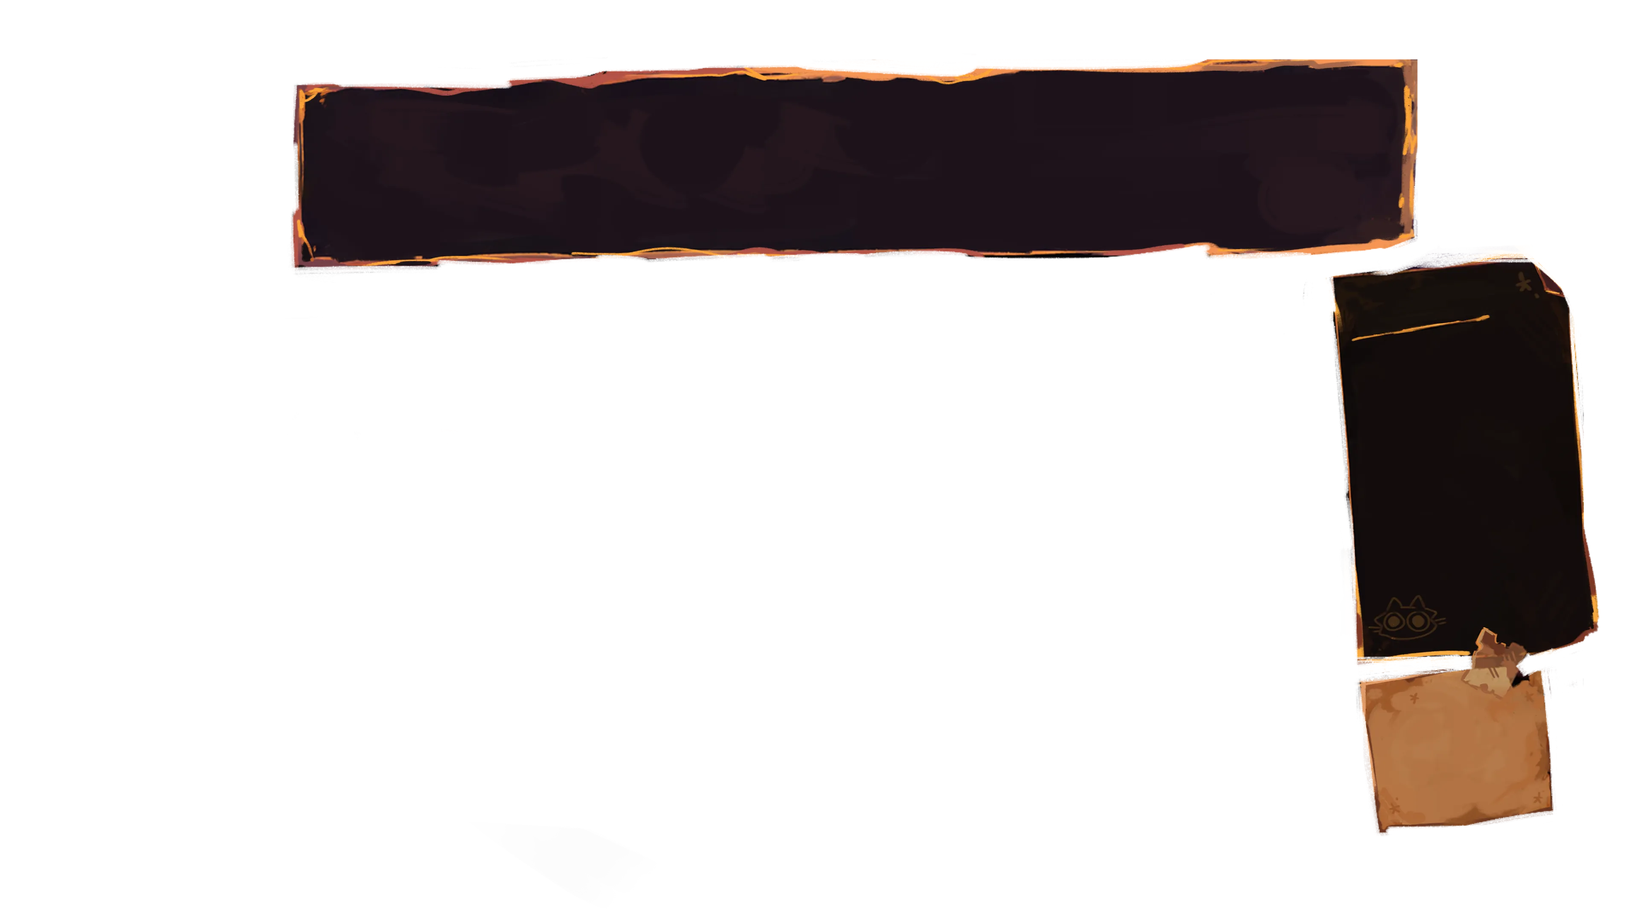
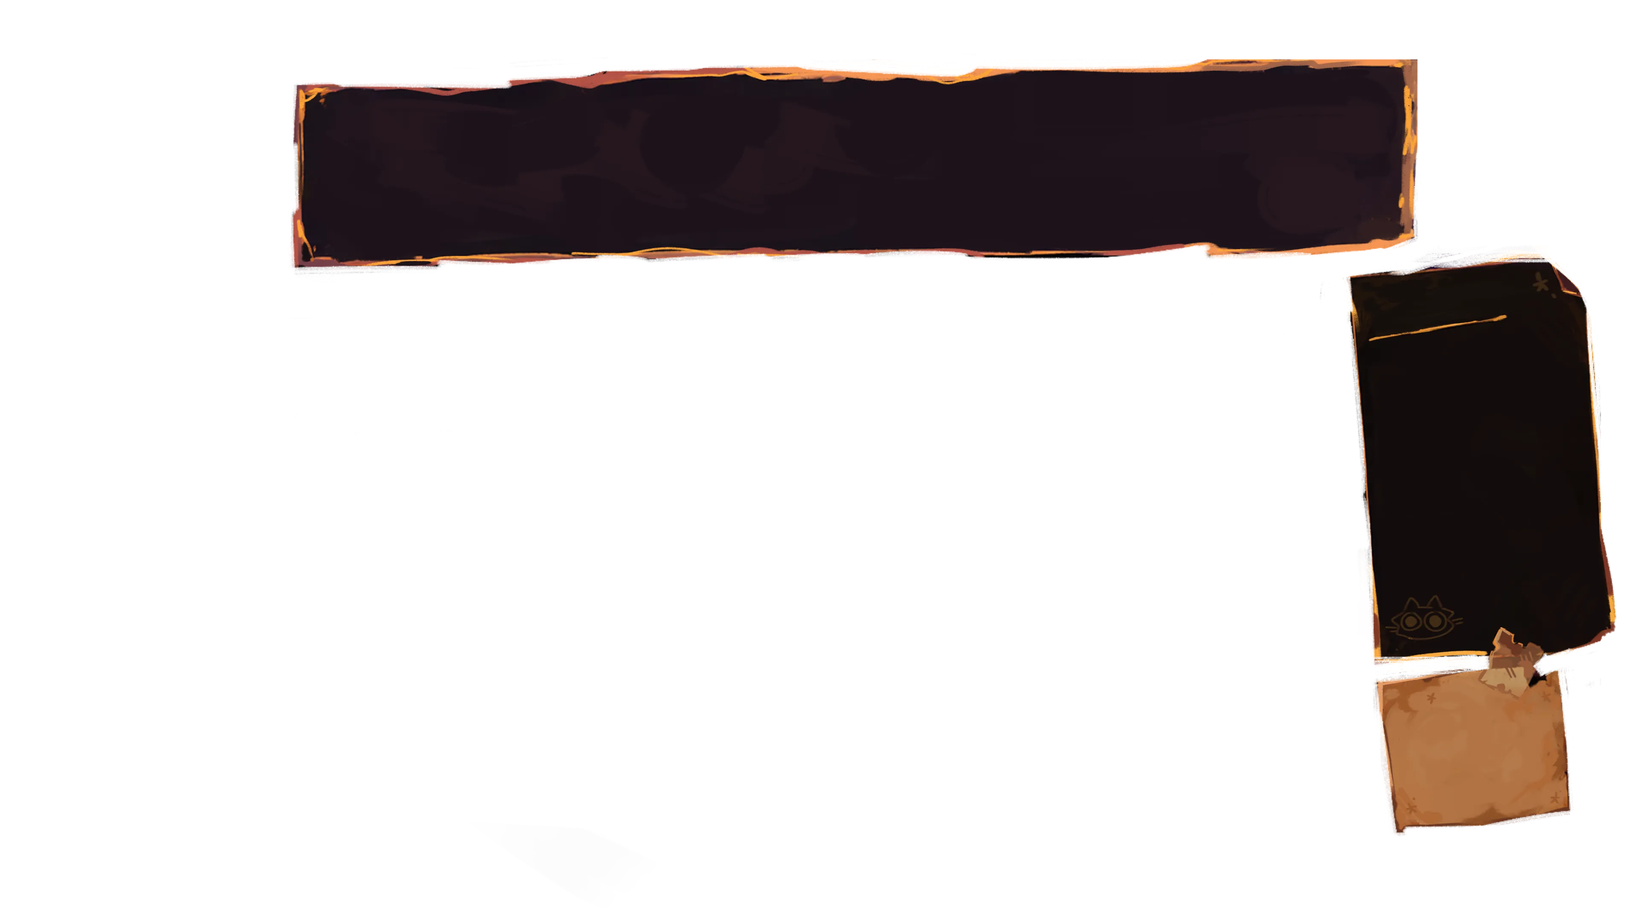
.

Changed region(s): [[0.8125, 0.2792, 1.0, 0.8995]]

diff --git a/src/styles/focused.css b/src/styles/focused.css
@@ -2,44 +2,50 @@
 html.focused .desktop .topbar{visibility:hidden}
 /* ---- desktop / wide-tablet stage: a 16:9 box (scales to the screen). Positions are % of the 3840×2160 art; text sizes use cqw (1cqw = 1% of the stage width) ---- */
 .fw{position:fixed;inset:0;z-index:20;display:grid;place-items:center;pointer-events:none}
-.fw-stage{position:relative;width:min(100vw,177.7778dvh);height:min(56.25vw,100dvh);container-type:size;pointer-events:none;opacity:0;transform:translateY(14px) scale(.985);transition:opacity .6s ease,transform .7s cubic-bezier(.2,1.1,.3,1);--cr-hand:var(--hand,'Caveat',cursive)}
+.fw-stage{position:relative;width:min(100vw,210dvh);height:min(100dvh,64.5vw);container-type:size;pointer-events:none;opacity:0;transform:translateY(14px) scale(.985);transition:opacity .6s ease,transform .7s cubic-bezier(.2,1.1,.3,1);--cr-hand:var(--hand,'Caveat',cursive)}
 .fw-stage.shown{opacity:1;transform:none}
 .fw-stage>*{position:absolute}
 .fw-art{inset:0;width:100%;height:100%;object-fit:fill;user-select:none;filter:drop-shadow(0 1.4cqw 2.4cqw #000a)}
 .fw-top,.fw-nav,.fw-head,.fw-scroll,.fw-bring,.fw-note{pointer-events:auto}
-/* header: logo, name, clock */
-.fw-top{left:3%;right:2.6%;top:2.4%;display:flex;align-items:center;gap:1.1cqw;font:700 1.55cqw/1 var(--disp);letter-spacing:.12em;color:var(--cr);pointer-events:none}
-.fw-top img{width:4.2cqw;filter:drop-shadow(0 4px 8px #000a)}.fw-top .clock{margin-left:auto;pointer-events:auto;font-size:max(11px,.85cqw)}.fw-top .sfxbtn{font-size:max(10px,.8cqw)}
+.fw-stars{inset:0;width:100%;height:100%;pointer-events:none}
+.fw-pc{left:0;bottom:0;width:17.6cqw;height:auto;--from:translateX(-60px);animation-delay:.12s;filter:drop-shadow(0 12px 20px #000b)}
+html.focused .dock{top:max(14px,2.4vh);left:max(14px,1.2vw)}
+/* header: SFX + clock (the name now lives in the banner) */
+.fw-top{right:1.1%;top:2.5%;display:flex;align-items:center;pointer-events:none}
+.fw-top .clock{margin-left:auto;pointer-events:auto;font-size:max(11px,.85cqw)}.fw-top .sfxbtn{font-size:max(10px,.8cqw)}
 /* left navigation */
 .fw-nav{left:6.9%;top:19.5%;width:11.4%;display:flex;flex-direction:column;gap:.35cqw}
 .fw-nav button{display:flex;align-items:center;gap:.8cqw;padding:.85cqw .9cqw;text-align:left;font:600 .98cqw/1 var(--mono);letter-spacing:.11em;text-transform:uppercase;border-radius:.3cqw;transition:.2s;color:var(--cr)}
 .fw-nav img{width:2.3cqw;height:2.3cqw;object-fit:contain;flex:none}
 .fw-nav button:hover{background:var(--o2);color:var(--bg);transform:translateX(.25cqw)}.fw-nav button:hover img{filter:brightness(.25) contrast(1.3)}
 .fw-nav .on{background:#ff8c1822;box-shadow:inset .22cqw 0 0 var(--o2);color:var(--cr2)}
-/* banner = the professional focus */
-.fw-banner{left:19.6%;top:10.6%;width:65%;height:16.6%;display:flex;align-items:center;gap:2.2cqw;transform:rotate(-1.1deg);pointer-events:none}
-.fw-banner>img{width:6.6cqw;height:6.6cqw;object-fit:contain;filter:drop-shadow(0 .4cqw .6cqw #000a)}
-.fw-banner h2{font:900 3.4cqw/1 var(--disp);letter-spacing:.02em;color:var(--cr2)}
-.fw-banner i{display:block;width:16cqw;height:.32cqw;margin:.7cqw 0 .9cqw;border-radius:.3cqw;background:var(--o2);transform:rotate(-.6deg)}
-.fw-banner p{font-size:max(10px,.98cqw);line-height:1.45;letter-spacing:.04em;color:var(--cr);opacity:.92}
+/* banner = name + role */
+.fw-banner{left:19.6%;top:10.6%;width:65.4%;height:16.8%;display:flex;align-items:center;gap:2.2cqw;transform:rotate(-1.1deg);pointer-events:none}
+.fw-banner>img:first-child{width:6.4cqw;height:6.4cqw;object-fit:contain;align-self:center;margin-top:-1.2cqh;filter:drop-shadow(0 .4cqw .6cqw #000a)}
+.fw-banner h2{position:relative;display:inline-block;font:900 3.6cqw/1.05 var(--disp);letter-spacing:.02em;color:var(--cr2);padding-bottom:.9cqw}
+.fw-banner h2:after{content:"";position:absolute;left:0;right:-1.5cqw;bottom:0;height:.3cqw;border-radius:.3cqw;background:var(--o2);transform:rotate(-.5deg)}
+.fw-banner p{margin-top:1cqw;font:600 max(10px,1cqw)/1.35 var(--mono);letter-spacing:.03em;color:var(--cr)}
+.fw-logo{margin-left:auto;margin-right:3cqw;width:7.2cqw;height:auto;object-fit:contain;filter:drop-shadow(0 .4cqw .8cqw #000a)}
 /* section heading + filters */
 .fw-head{left:19.6%;width:61%;top:30.6%;height:6.4%;display:flex;align-items:center;justify-content:space-between;gap:1.4cqw}
-.fw-head h3{display:flex;align-items:center;gap:1cqw;font:600 1.35cqw/1 var(--mono);letter-spacing:.14em;color:var(--cr2);position:relative;padding-bottom:.6cqw}
-.fw-head h3 img{width:2.8cqw;height:2.8cqw;object-fit:contain}.fw-head h3:after{content:"";position:absolute;left:3.6cqw;right:0;bottom:0;height:.26cqw;border-radius:.3cqw;background:var(--o2);transform:rotate(-.5deg)}
+.fw-head h3{display:flex;align-items:center;gap:.9cqw;font:600 1.05cqw/1 var(--mono);letter-spacing:.14em;color:var(--cr2);position:relative;padding-bottom:.6cqw}
+.fw-head h3 img{width:2.4cqw;height:2.4cqw;object-fit:contain}.fw-head h3:after{content:"";position:absolute;left:3.3cqw;right:0;bottom:0;height:.26cqw;border-radius:.3cqw;background:var(--o2);transform:rotate(-.5deg)}
 .fw-pills{display:flex;flex-wrap:wrap;gap:.6cqw;justify-content:flex-end}
 .fw-pills button{display:inline-flex;align-items:center;gap:.5em;padding:.45cqw 1cqw;font:500 max(9.5px,.78cqw)/1.2 var(--mono);letter-spacing:.08em;border:1px solid #ff8c1877;border-radius:99px;transition:.2s}
 .fw-pills button:hover{background:#ff8c1833}.fw-pills button.on{background:var(--o2);color:var(--bg);border-color:var(--o2);font-weight:600}.fw-pills .swi{margin:0}
 /* scrolling content = the existing sections, untouched */
 .fw-scroll{left:19.6%;width:61%;top:38.4%;bottom:4.6%;overflow:auto;overflow-x:hidden;padding:.4cqw .8cqw 2cqw .2cqw;scrollbar-color:var(--o) transparent;scrollbar-width:thin;-webkit-overflow-scrolling:touch;overscroll-behavior:contain}
-/* what I bring */
-.fw-bring{left:82.4%;top:29%;width:14.4%;height:37.5%;transform:rotate(-3.3deg);padding:5.7cqw .9cqw 0 1.3cqw;color:var(--cr)}
-.fw-bring h3{position:absolute;left:1.5cqw;top:.55cqw;font:700 1.7cqw/1 var(--hand);letter-spacing:.07em;text-transform:uppercase;color:var(--cr2);white-space:nowrap}
+/* what I bring (rotated to match the drawn panel) */
+.fw-bring{left:83.1%;top:29.6%;width:14.6%;height:41%;transform:rotate(-4.2deg);padding:9cqh .8cqw 0 1.2cqw;color:var(--cr)}
+.fw-bring h3{position:absolute;left:1.3cqw;top:2.1cqh;font:700 1.3cqw/1 var(--hand);letter-spacing:.07em;text-transform:uppercase;color:var(--cr2);white-space:nowrap}
 .fw-bring ul{list-style:none;padding:0;height:100%;overflow:hidden auto;scrollbar-width:none}.fw-bring ul::-webkit-scrollbar{display:none}
-.fw-bring li{display:flex;gap:.55cqw;margin-bottom:.7cqw;font:600 1.12cqw/1.06 var(--hand)}.fw-bring li:before{content:"✦";color:var(--o2);font-size:.95em;flex:none;line-height:1.1}
+.fw-bring li{display:flex;gap:.5cqw;margin-bottom:.6cqw;font:600 1.02cqw/1.06 var(--hand)}.fw-bring li:before{content:"✦";color:var(--o2);font-size:.95em;flex:none;line-height:1.1}
 /* sticky note → generalist portfolio (a real link) */
-.fw-note{left:83.7%;top:75.3%;width:10.4%;height:13.6%;display:grid;place-content:center;gap:.5cqw;text-align:center;color:#3a2113;font-family:var(--hand);transform:rotate(-5deg);transition:transform .25s}
-.fw-note span{font:700 1.5cqw/1 var(--hand);letter-spacing:.04em;text-transform:uppercase}.fw-note b{justify-self:center;font:700 1.35cqw/1 var(--hand);letter-spacing:.06em;text-transform:uppercase;padding:.35cqw .8cqw;border:.2cqw solid #3a2113;border-radius:.5cqw;transition:.2s}
-.fw-note:hover,.fw-note:focus-visible{transform:rotate(-2deg) scale(1.05)}.fw-note:hover b,.fw-note:focus-visible b{background:#3a2113;color:#ffd36a}
+.fw-note{left:84.6%;top:74%;width:10.8%;height:15.4%;display:grid;place-content:center;gap:.7cqw;text-align:center;color:#3a2113;font-family:var(--hand);transform:rotate(-4deg);transition:transform .25s}
+.fw-note span{font:700 1.1cqw/1.05 var(--hand);letter-spacing:.04em;text-transform:uppercase;opacity:.8}
+.fw-note b{position:relative;justify-self:center;font:700 1.05cqw/1 var(--mono);letter-spacing:.08em;text-transform:uppercase;padding:.5cqw 1.2cqw;border-radius:99px;background:var(--o2);color:var(--bg);box-shadow:0 .2cqw .5cqw #0006;transition:.2s}
+.fw-note b:after{content:"✦";position:absolute;right:-.5cqw;top:-.7cqw;font-size:1.1cqw;color:var(--y2)}
+.fw-note:hover,.fw-note:focus-visible{transform:rotate(-2deg) scale(1.05)}.fw-note:hover b,.fw-note:focus-visible b{background:var(--y2)}
 
 /* ---- phones / portrait tablets: the existing full-screen window + a compact focus header at the top of the content ---- */
 .fi{display:flex;flex-wrap:wrap;gap:10px;align-items:stretch;margin:0 0 14px;padding:10px 12px;border:1px solid #ff8c1866;border-radius:10px;background:linear-gradient(#24150e,#1b100b)}
@@ -66,3 +72,6 @@ html.compact .fw .fw-scroll .grid{display:grid;overflow:visible;padding:0;scroll
 html.compact .fw .fw-scroll .awards{display:grid;overflow:visible;padding:0;scroll-snap-type:none}
 html.compact .fw .fw-scroll .grid>.card,html.compact .fw .fw-scroll .award{flex:initial}
 html.compact .fw .fw-scroll .card p{display:block;-webkit-line-clamp:unset;overflow:visible}
+
+/* smaller sub-headings inside the focused window (Recognition…, category intros) */
+.fw-scroll .sec-intro h3{font-size:max(12px,1.1cqw)}.fw-scroll .sec-intro p{font-size:max(10px,.8cqw);line-height:1.5}

diff --git a/src/utils/preload.js b/src/utils/preload.js
@@ -3,14 +3,13 @@ import { site, about } from '../data/siteData';
 import { sections } from '../data/navigationData';
 import { asset, appleVideo } from './assets';
 import * as M from './music';
+import { PREVIEWS } from '../components/PreviewReel';
 // Two-stage loading, so the loading screen stays short:
-//   1) CRITICAL (blocks the intro): backgrounds, UI, logo + section icons and the Rigging thumbnails (the first section most visitors open).
-//   2) BACKGROUND (starts shortly after the desktop appears, never blocks anything): all remaining images, then the rest of the videos
-//      (first video of each project before the second ones), then the other songs. It pauses while a pop-up/viewer is open so it never competes with what the visitor is watching.
+//   1) CRITICAL (blocks the intro): ONLY backgrounds, UI art, logo + section icons and the section PREVIEW videos (components/PreviewReel.jsx).
+//   2) BACKGROUND (starts right after the intro, while the visitor watches a preview): thumbnails (the opened section first), then the other songs. Project videos load when they are opened.
 // URLs are collected automatically from your data files (portfolioData / siteData) — new entries are picked up with no changes here.
 // Missing files are skipped silently. Anything still loading after TIMEOUT_MS keeps loading in the background.
-const TIMEOUT_MS = 60000, BG_DELAY_MS = 700, IMG = /\.(webp|png|jpe?g|gif|avif|svg)(\?|$)/i, VID = /\.(webm|mp4)(\?|$)/i;
-const EAGER_VIDEO_OF = 'blender-01'; // ✏ project whose FIRST video is the very first thing loaded in the background stage right after the desktop appears (Eridan). It no longer holds up the loading screen.
+const TIMEOUT_MS = 60000, BG_DELAY_MS = 300, IMG = /\.(webp|png|jpe?g|gif|avif|svg)(\?|$)/i, VID = /\.(webm|mp4)(\?|$)/i;
 const FOCUSED_ART = /\/focused/.test(location.hash) ? ['/assets/ui/FocusedWindow.webp', '/assets/ui/FocusedLayerTop.webp'] : []; // only the focused versions need these
 const STATIC = [...FOCUSED_ART, '/assets/intro/color-logo.webp', '/assets/backgrounds/background.jpg', '/assets/ui/main-window.webp', '/assets/ui/small-window.webp', '/assets/ui/award-card.webp', '/assets/ui/about-layout.webp',
   '/assets/ui/back-right.webp', '/assets/ui/front-left.webp', '/assets/audio/PlayerIcon.webp', ...(appleVideo() ? ['/assets/backgrounds/backgroundApple.webm'] : ['/assets/backgrounds/background.webm', '/assets/backgrounds/foreground.webm'])];
@@ -28,20 +27,19 @@ export async function preloadAll(onProgress) {
   const all = new Set(); walk(D, all); walk(about, all);
   // ---- stage 1: critical ----
   const crit = new Set(STATIC); crit.add(site.logo); sections.forEach((s) => crit.add(`/assets/icons/${s.id}.webp`));
-  D.rigging.forEach((it) => { if (typeof it.image === 'string' && (it.image.startsWith('/assets/') || it.image.startsWith('http'))) crit.add(it.image); }); // Rigging thumbnails only; the other sections' thumbnails load right after the desktop appears (stage 2, first in line)
-  const eager = D.rigging.find((r) => r.id === EAGER_VIDEO_OF)?.videos?.[0]?.src; // (no longer blocks loading)
+  if (!save) Object.values(PREVIEWS).forEach((p) => crit.add(p.src)); // the first-visit preview reels (a missing file is skipped silently). Thumbnails + project videos are NOT waited for any more.
+  const hot = (location.hash.match(/^#\/(\w+)/) || [])[1] || 'rigging', hotSet = new Set(); (Array.isArray(D[hot]) ? D[hot] : D.rigging).forEach((it) => typeof it.image === 'string' && hotSet.add(it.image)); // thumbnails of the section being opened load first
   await M.init(); const songs = M.getState().tracks.map((t) => t.url); // song 1 streams by itself through the player's <audio>; the others load in stage 2
-  const imgs = [...crit].filter((u) => !VID.test(u)), vids = save ? [] : [...crit].filter((u) => VID.test(u) && (!phone || /backgrounds/.test(u))).sort((a, b) => /backgrounds/.test(b) - /backgrounds/.test(a));
+  const imgs = [...crit].filter((u) => !VID.test(u)), vids = save ? [] : [...crit].filter((u) => VID.test(u) && (!phone || /backgrounds|previews/.test(u))).sort((a, b) => /backgrounds/.test(b) - /backgrounds/.test(a));
   const total = imgs.length + vids.length || 1, frac = new Map(); let t = 0;
   const rep = (u) => (f) => { frac.set(u, f); const n = performance.now(); if (n - t > 90 || f === 1) { t = n; onProgress?.([...frac.values()].reduce((a, b) => a + b, 0) / total); } };
   const run = Promise.all([pool(imgs, 10, (u) => imgTask(u, rep(u))), pool(vids, 3, (u) => streamTask(u, rep(u)))]);
   await Promise.race([run, new Promise((r) => setTimeout(r, TIMEOUT_MS))]); onProgress?.(1);
   // ---- stage 2: everything else, quietly, after the intro ----
   setTimeout(async () => {
-    const num = (u) => +(/-(\d+)\.\w+$/.exec(u)?.[1] || 0), noop = () => {};
-    const restImgs = [...all].filter((u) => !crit.has(u) && !VID.test(u)).sort((a, b) => /thumb|\/animation\/|\/modelling\/|\/awards\/|\/projects\//.test(b) - /thumb|\/animation\/|\/modelling\/|\/awards\/|\/projects\//.test(a)); // section thumbnails first, then the rest // (crit images are already cached; never fetched twice)
-    const restVids = save ? [] : [...all].filter((u) => !crit.has(u) && VID.test(u) && !phone).sort((a, b) => num(a) - num(b)); // video 01 of every project before video 02, etc.
-    const first = eager && !save && !phone ? [eager] : [], rest = [...first, ...restVids.filter((u) => u !== eager), ...(save || phone ? [] : songs.slice(1, 3))];
+    const noop = () => {}, sec = /thumb|\/animation\/|\/modelling\/|\/awards\/|\/projects\//, score = (u) => (hotSet.has(u) ? 2 : sec.test(u) ? 1 : 0);
+    const restImgs = [...all].filter((u) => !crit.has(u) && !VID.test(u)).sort((a, b) => score(b) - score(a)); // thumbnails: the opened section first, then the other sections
+    const rest = save || phone ? [] : songs.slice(1, 3); // project videos are no longer prefetched: they stream when opened
     try { await pool(restImgs, 5, async (u) => { await calm(); await imgTask(u, noop); }); await pool(rest, 2, async (u) => { await calm(); await streamTask(u, noop); }); } catch {}
   }, BG_DELAY_MS);
 }

diff --git a/src/components/StarField.jsx b/src/components/StarField.jsx
@@ -1,0 +1,41 @@
+import { useEffect, useRef } from 'react';
+import { reducedMotion } from '../utils/assets';
+
+// Little orange stars that drift around the focused window and react to the mouse / finger: they get pushed away from the pointer, and moving it leaves a few sparks.
+const COLORS = ['#FFB52E', '#FF8C18', '#FFD36A', '#FF7A00'];
+function sprite(color) { // one soft 4-point star, drawn once and reused
+  const s = 48, c = document.createElement('canvas'); c.width = c.height = s; const x = c.getContext('2d'), m = s / 2;
+  x.shadowColor = color; x.shadowBlur = 7; x.fillStyle = color; x.beginPath();
+  x.moveTo(m, 5); x.quadraticCurveTo(m + 3, m - 3, s - 5, m); x.quadraticCurveTo(m + 3, m + 3, m, s - 5); x.quadraticCurveTo(m - 3, m + 3, 5, m); x.quadraticCurveTo(m - 3, m - 3, m, 5); x.fill(); return c;
+}
+export default function StarField() {
+  const cv = useRef();
+  useEffect(() => {
+    if (reducedMotion()) return;
+    const el = cv.current, x = el.getContext('2d'), sp = COLORS.map(sprite), coarse = matchMedia('(pointer:coarse)').matches;
+    let w = 1, h = 1, dpr = 1, raf = 0, last = performance.now(), mx = -999, my = -999, lx = -999, ly = -999;
+    const N = coarse ? 16 : 34, R = coarse ? 110 : 150, stars = [], sparks = [];
+    const mk = () => ({ x: Math.random() * w, y: Math.random() * h, vx: (Math.random() - 0.5) * 0.12, vy: -0.03 - Math.random() * 0.12, s: 5 + Math.random() * 9, a: Math.random() * 6.28, f: 0.8 + Math.random() * 1.6, c: (Math.random() * sp.length) | 0, px: 0, py: 0 });
+    const fit = () => { const r = el.getBoundingClientRect(); dpr = Math.min(2, devicePixelRatio || 1); w = r.width || 1; h = r.height || 1; el.width = w * dpr; el.height = h * dpr; x.setTransform(dpr, 0, 0, dpr, 0, 0); while (stars.length < N) stars.push(mk()); };
+    const move = (e) => { const r = el.getBoundingClientRect(); mx = e.clientX - r.left; my = e.clientY - r.top;
+      if (Math.hypot(mx - lx, my - ly) > 14 && mx > 0 && my > 0 && mx < w && my < h && sparks.length < 28) { sparks.push({ x: mx, y: my, vx: (Math.random() - 0.5) * 0.7, vy: (Math.random() - 0.5) * 0.7 - 0.2, t: 0, s: 4 + Math.random() * 5, c: (Math.random() * sp.length) | 0 }); lx = mx; ly = my; } };
+    const leave = () => { mx = my = -999; };
+    const frame = (t) => { raf = requestAnimationFrame(frame); const dt = Math.min(48, t - last) / 16.67; last = t; x.clearRect(0, 0, w, h);
+      for (const s of stars) {
+        const dx = s.x - mx, dy = s.y - my, d = Math.hypot(dx, dy);
+        if (d < R && d > 0.1) { const f = (1 - d / R) ** 2 * 1.5; s.px += (dx / d) * f; s.py += (dy / d) * f; } // pushed away from the pointer
+        s.x += (s.vx + s.px) * dt; s.y += (s.vy + s.py) * dt; s.px *= 0.93; s.py *= 0.93;
+        if (s.y < -12) { s.y = h + 12; s.x = Math.random() * w; } if (s.x < -12) s.x = w + 12; if (s.x > w + 12) s.x = -12; if (s.y > h + 14) s.y = -12;
+        const tw = 0.55 + 0.45 * Math.sin(t / 1000 * s.f + s.a), z = s.s * (0.85 + 0.25 * tw), near = d < R ? 1 + (1 - d / R) * 0.5 : 1;
+        x.globalAlpha = 0.35 + 0.55 * tw; x.save(); x.translate(s.x, s.y); x.rotate(Math.sin(t / 2400 + s.a) * 0.35); x.drawImage(sp[s.c], -z * near / 2, -z * near / 2, z * near, z * near); x.restore();
+      }
+      for (let i = sparks.length - 1; i >= 0; i--) { const k = sparks[i]; k.t += dt * 0.022; if (k.t >= 1) { sparks.splice(i, 1); continue; } k.x += k.vx * dt; k.y += k.vy * dt;
+        x.globalAlpha = 1 - k.t; const z = k.s * (1 - k.t * 0.6); x.drawImage(sp[k.c], k.x - z / 2, k.y - z / 2, z, z); }
+      x.globalAlpha = 1; };
+    fit(); const ro = new ResizeObserver(fit); ro.observe(el);
+    addEventListener('pointermove', move, { passive: true }); document.addEventListener('pointerleave', leave); addEventListener('blur', leave);
+    const vis = () => { cancelAnimationFrame(raf); if (!document.hidden) { last = performance.now(); raf = requestAnimationFrame(frame); } }; vis(); document.addEventListener('visibilitychange', vis);
+    return () => { cancelAnimationFrame(raf); ro.disconnect(); removeEventListener('pointermove', move); document.removeEventListener('pointerleave', leave); removeEventListener('blur', leave); document.removeEventListener('visibilitychange', vis); };
+  }, []);
+  return <canvas ref={cv} className="fw-stars" aria-hidden="true" />;
+}

diff --git a/src/components/FocusedWindow.jsx b/src/components/FocusedWindow.jsx
@@ -5,6 +5,7 @@ import { site } from '../data/siteData';
 import { asset } from '../utils/assets';
 import Section from '../sections';
 import SwIcon from './SwIcon';
+import StarField from './StarField';
 import { DockButton } from './MusicDock';
 import { Clock, SfxToggle, FsButton } from './Desktop';
 import '../styles/focused.css';
@@ -35,16 +36,18 @@ export default function FocusedWindow({ id, focusId, onNav }) {
     <div className={'fw-stage' + (shown ? ' shown' : '')}>
       <img className="fw-art" src={asset('/assets/ui/FocusedWindow.webp')} alt="" draggable="false" />
       <img className="fw-art" src={asset('/assets/ui/FocusedLayerTop.webp')} alt="" draggable="false" />
-      <header className="fw-top"><img src={asset('/assets/intro/color-logo.webp')} alt="" draggable="false" /><span>{site.name}</span><span className="clock"><DockButton /><FsButton /><SfxToggle /><Clock /></span></header>
+      <StarField />
+      <img className="deco fw-pc" src={asset('/assets/ui/front-left.webp')} alt="" draggable="false" />
+      <header className="fw-top"><span className="clock"><DockButton /><FsButton /><SfxToggle /><Clock /></span></header>
       <nav className="fw-nav" aria-label="Sections">
         {F.nav.map((k) => { const s = sec(k); return <button key={k} data-sfx="tick" className={k === id ? 'on' : ''} aria-current={k === id ? 'page' : undefined} onClick={() => (k === id ? setFilter('ALL') : onNav(k))}><Ico id={k} />{s.label}</button>; })}
       </nav>
-      <section className="fw-banner" aria-label={`${site.name} · ${F.role}`}><Ico id={focusId} /><div><h2>{prim.title}</h2><i aria-hidden="true" />{prim.sub.map((l, i) => <p key={i}>{l}</p>)}</div></section>
+      <section className="fw-banner" aria-label={`${site.name} · ${F.role}`}><Ico id={focusId} /><div><h2>{site.name}</h2><p>{F.tagline}</p></div><img className="fw-logo" src={asset('/assets/intro/color-logo.webp')} alt="" draggable="false" /></section>
       <div className="fw-head"><h3><Ico id={id} /><span>{heading}</span></h3>
         {cur.filters && <div className="fw-pills" role="group" aria-label={`${cur.label} categories`}>{cur.filters.map((f) => <button key={f} data-sfx="tick" className={f === filter ? 'on' : ''} aria-pressed={f === filter} onClick={() => setFilter(f)}><SwIcon name={f} />{f}</button>)}</div>}</div>
       <div className="fw-scroll" ref={sc}><div className="content"><Section id={id} filter={cur.filters?.includes(filter) ? filter : 'ALL'} /></div></div>
       <aside className="fw-bring" aria-label="What I bring"><h3>What I bring</h3><ul>{F.bring.map((t) => <li key={t}>{t}</li>)}</ul></aside>
-      <a className="fw-note" href={generalistUrl()} data-sfx="tick" aria-label="Open my generalist portfolio"><span>My generalist portfolio:</span><b>See here</b></a>
+      <a className="fw-note" href={generalistUrl()} data-sfx="tick" aria-label="Open my generalist portfolio"><span>My generalist portfolio:</span><b>Go there</b></a>
     </div>
   </div>);
 }

diff --git a/src/data/focusData.js b/src/data/focusData.js
@@ -1,21 +1,25 @@
 // ✏ EDIT ME: the role-focused versions of the portfolio  (#/rigging/focused · #/animation/focused · #/projects/focused).
 // They reuse ALL project data/media from portfolioData.js — this file only holds the little bits that are specific to each focus:
 //   role  = subtitle shown on the loading screen and in the browser tab
+//   tagline = line under MAR TORRENTE in the header banner
 //   nav   = which sections appear in the focused navigation (first one = the focus; every focus keeps Projects, Awards, About Me and Opinions)
 //   bring = the "WHAT I BRING" list (short lines; 4 fit best)
 export const FOCUS = {
   rigging: {
     role: 'CHARACTER RIGGING',
+    tagline: 'Digital Entertainment Design Engineer, Technical Artist, generalist.', // subtitle under the name in the header banner
     nav: ['rigging', 'awards', 'projects', 'about', 'opinions'],
     bring: ['Clean and efficient rigs for animation and games', 'Facial, cloth and prop setup', 'Custom tools and workflows', 'Problem solving & optimization'],
   },
   animation: {
     role: '3D ANIMATION',
+    tagline: 'Digital Entertainment Design Engineer, 3D Animator, generalist.',
     nav: ['animation', 'awards', 'projects', 'about', 'opinions'],
     bring: ['3D animation for shorts and moving artworks', 'Emotional storytelling and performance', 'Animator-friendly custom rigs', 'Creative direction and project management'],
   },
   projects: {
     role: 'CREATIVE DIRECTION & PRODUCTION',
+    tagline: 'Digital Entertainment Design Engineer, Creative Director, generalist.',
     nav: ['projects', 'awards', 'about', 'opinions'],
     bring: ['Project management and creative direction', 'Experience design and storytelling', 'Multidisciplinary 2D / 3D production', 'Leading and mentoring small teams'],
   },
